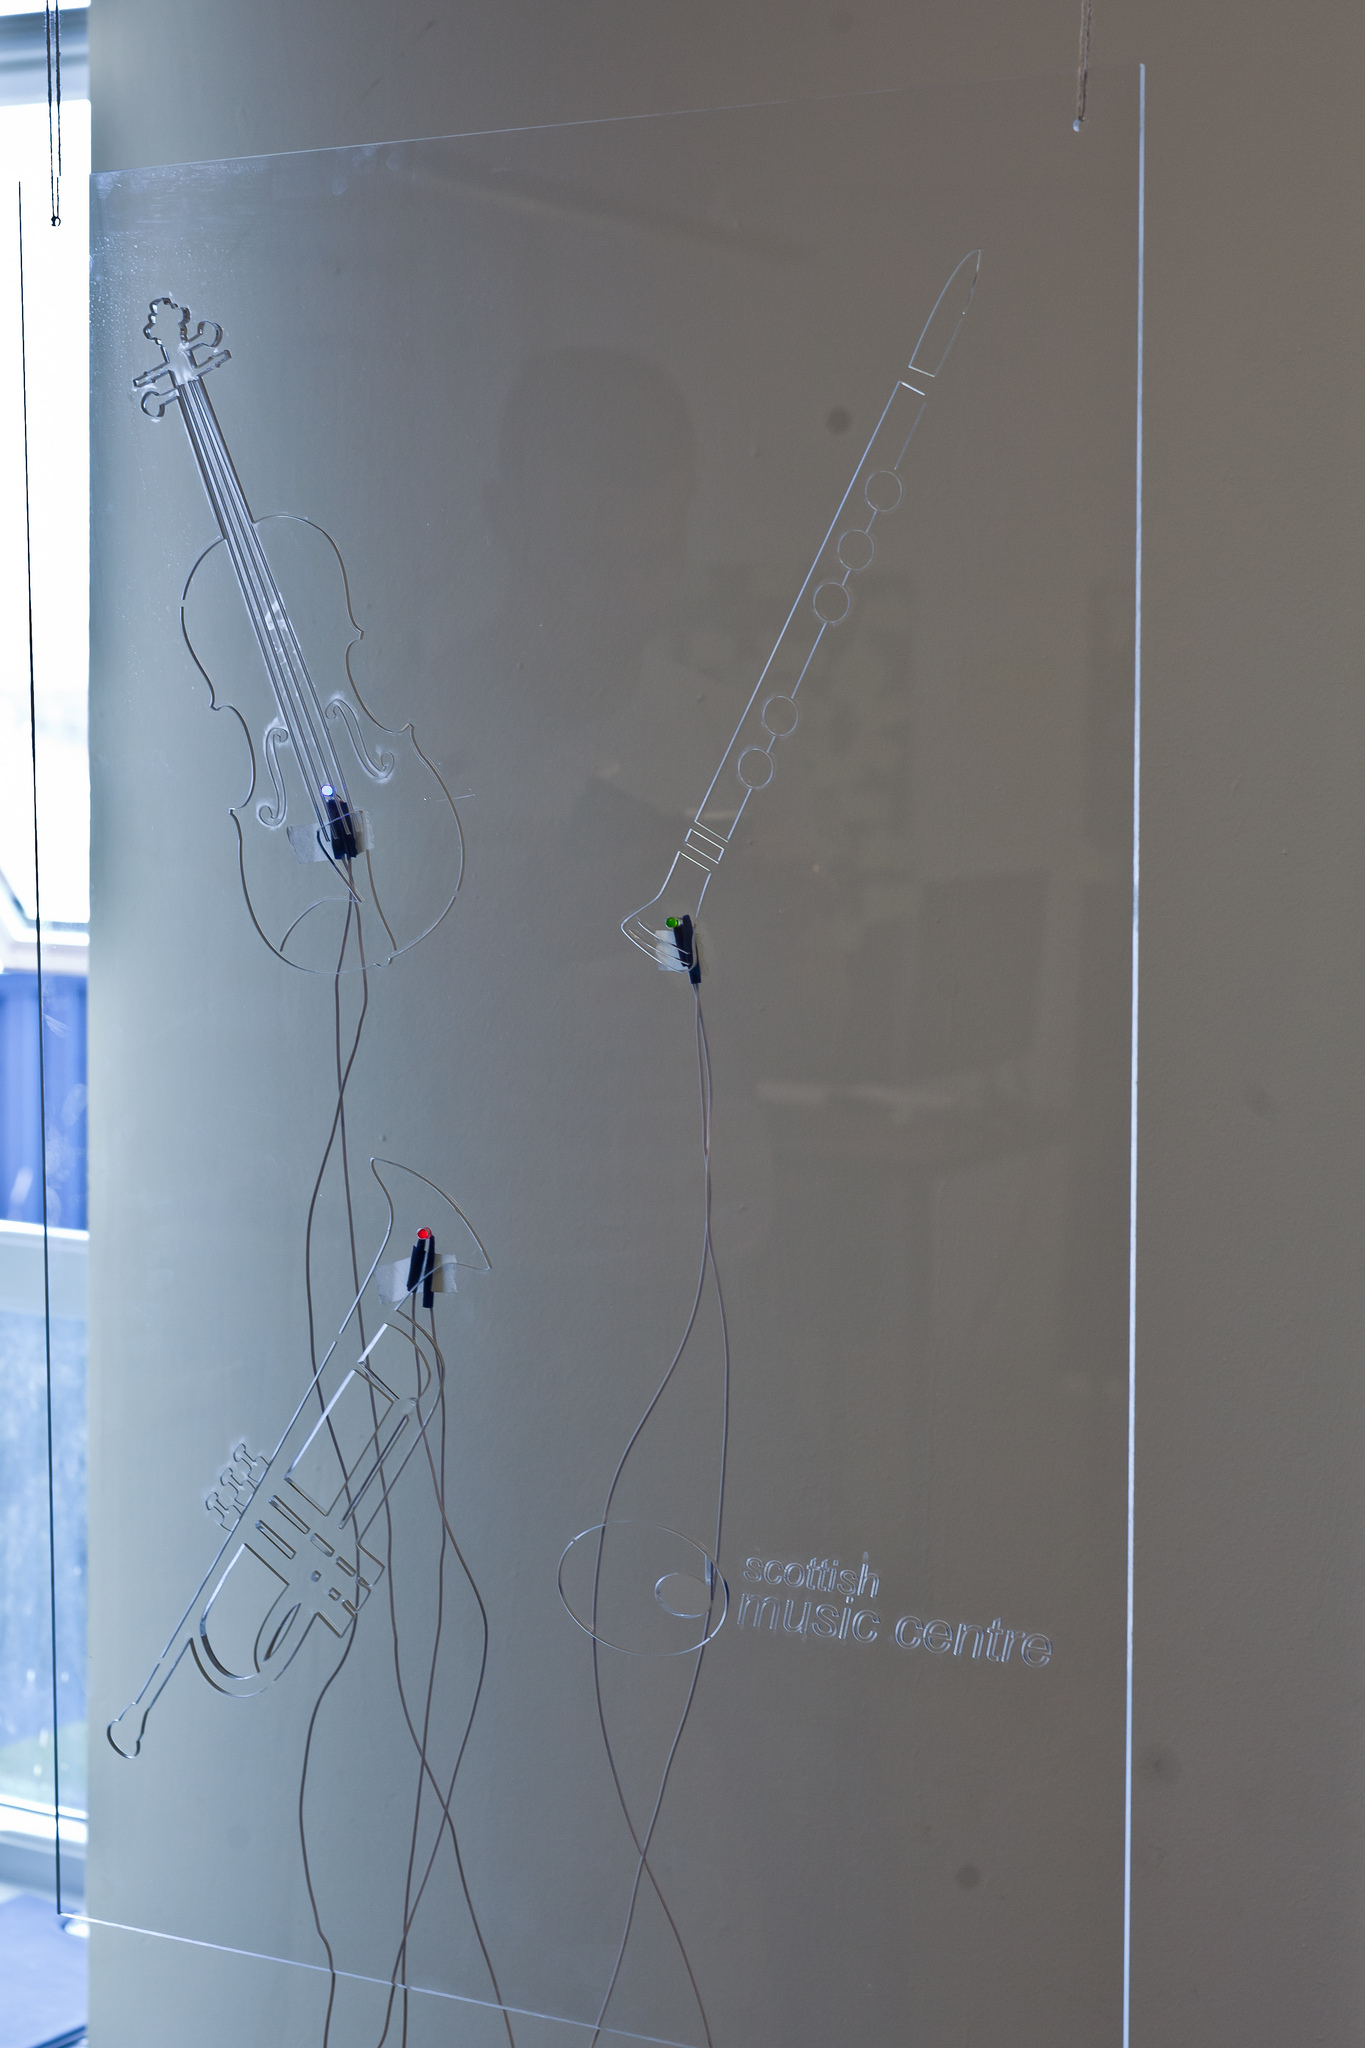
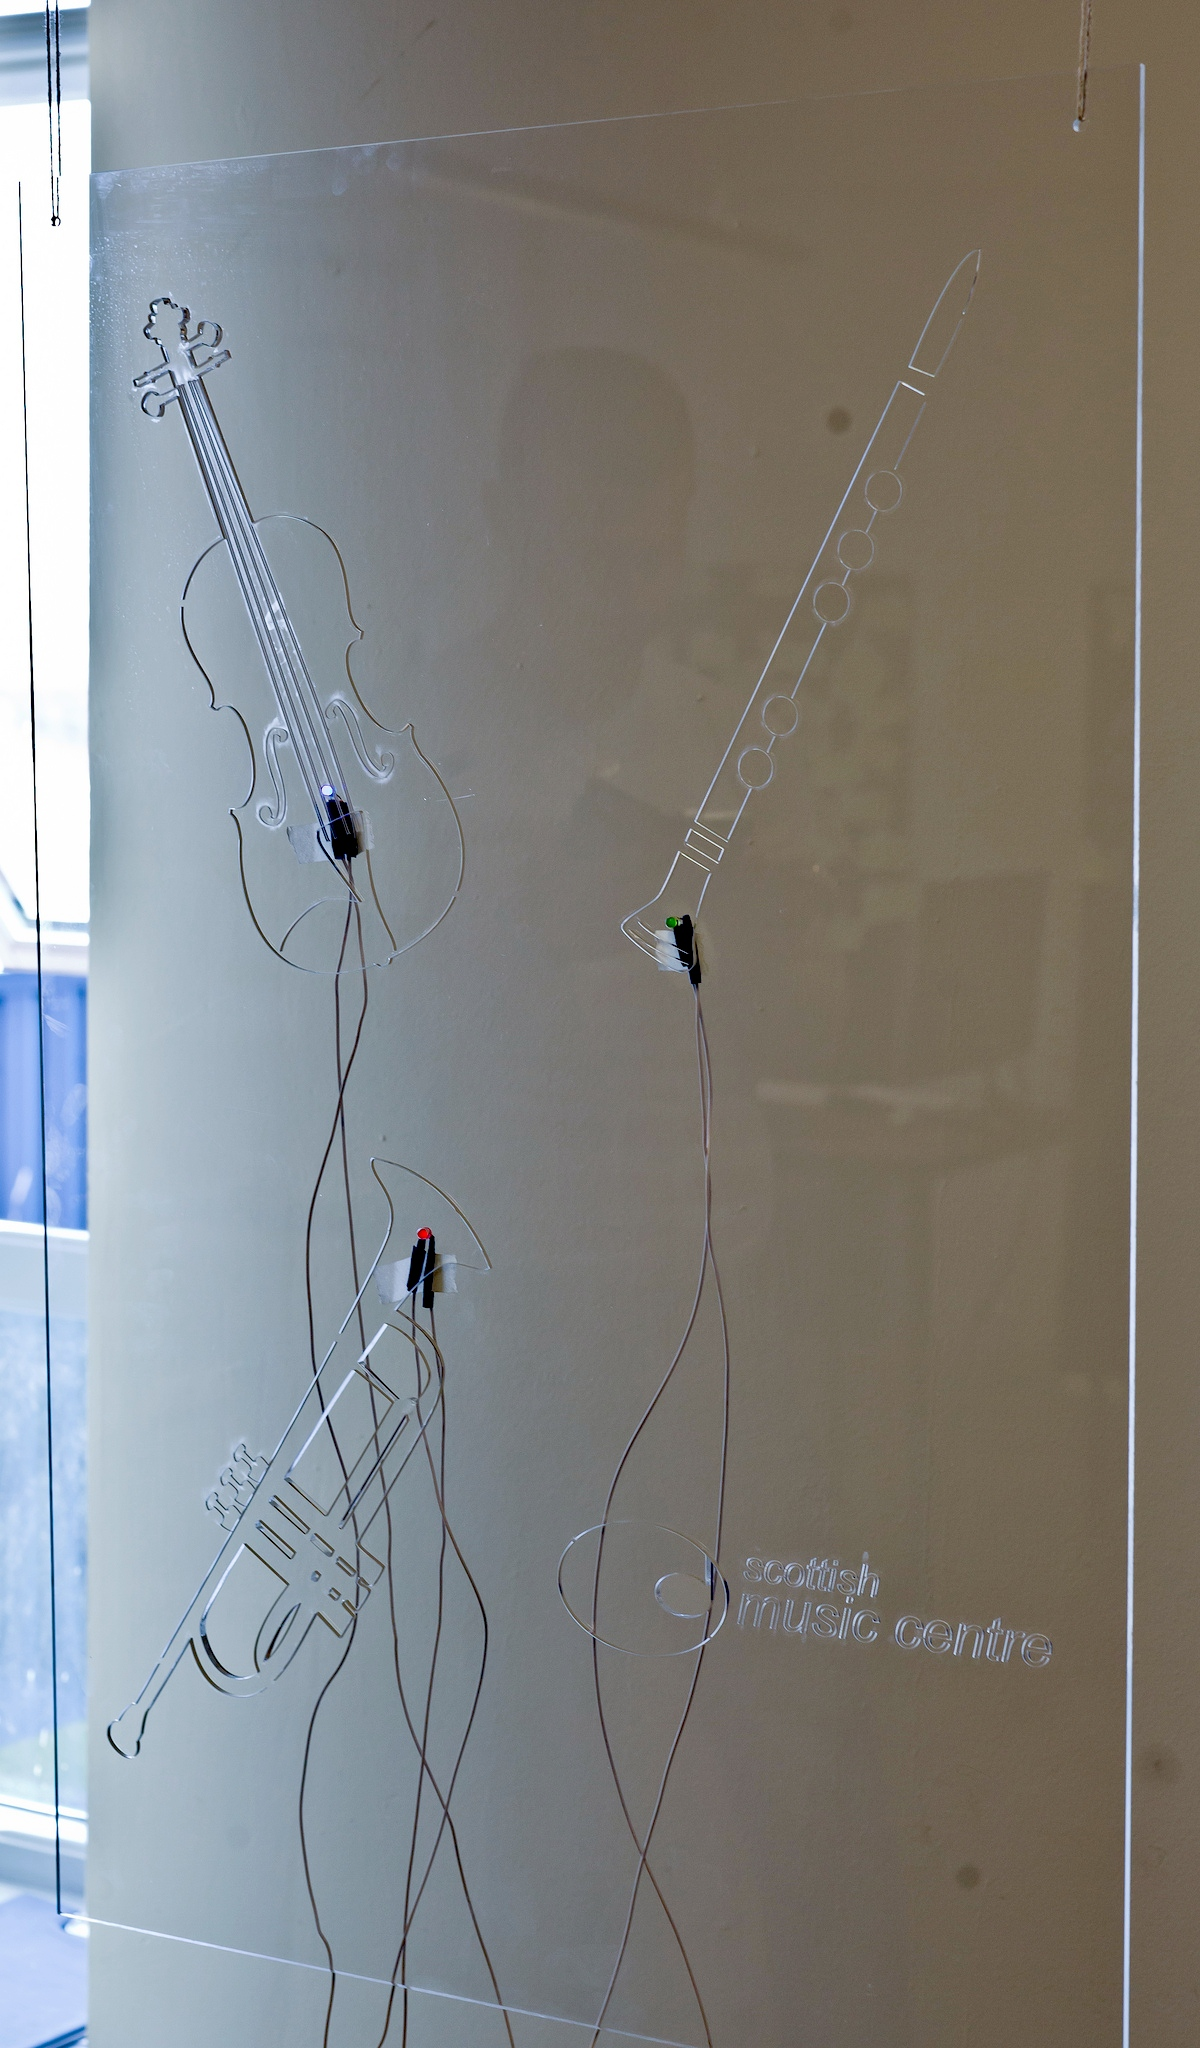
tweak photos for documentation

diff --git a/README.md b/README.md
@@ -2,7 +2,7 @@ Creative Carnage
 ================
 Visualisation of musical instrumentation via Raspberry Pi from a Sibelius/MusicXML file via Python/Music21
 
-![Final](/photos/final.jpg)
+![Final](/photos/finalSmall.jpg)
 
 Components
 ----------
@@ -21,6 +21,8 @@ Process
 2. convert.py with Python and Music21
 3. timed.py on Raspberry Pi with RPi.GPIO PWM
 4. Play performance audio as the LEDs perform (3 seconds after lights out)
+
+![Score](/photos/score.png)
 
 Hardware Setup
 --------------
